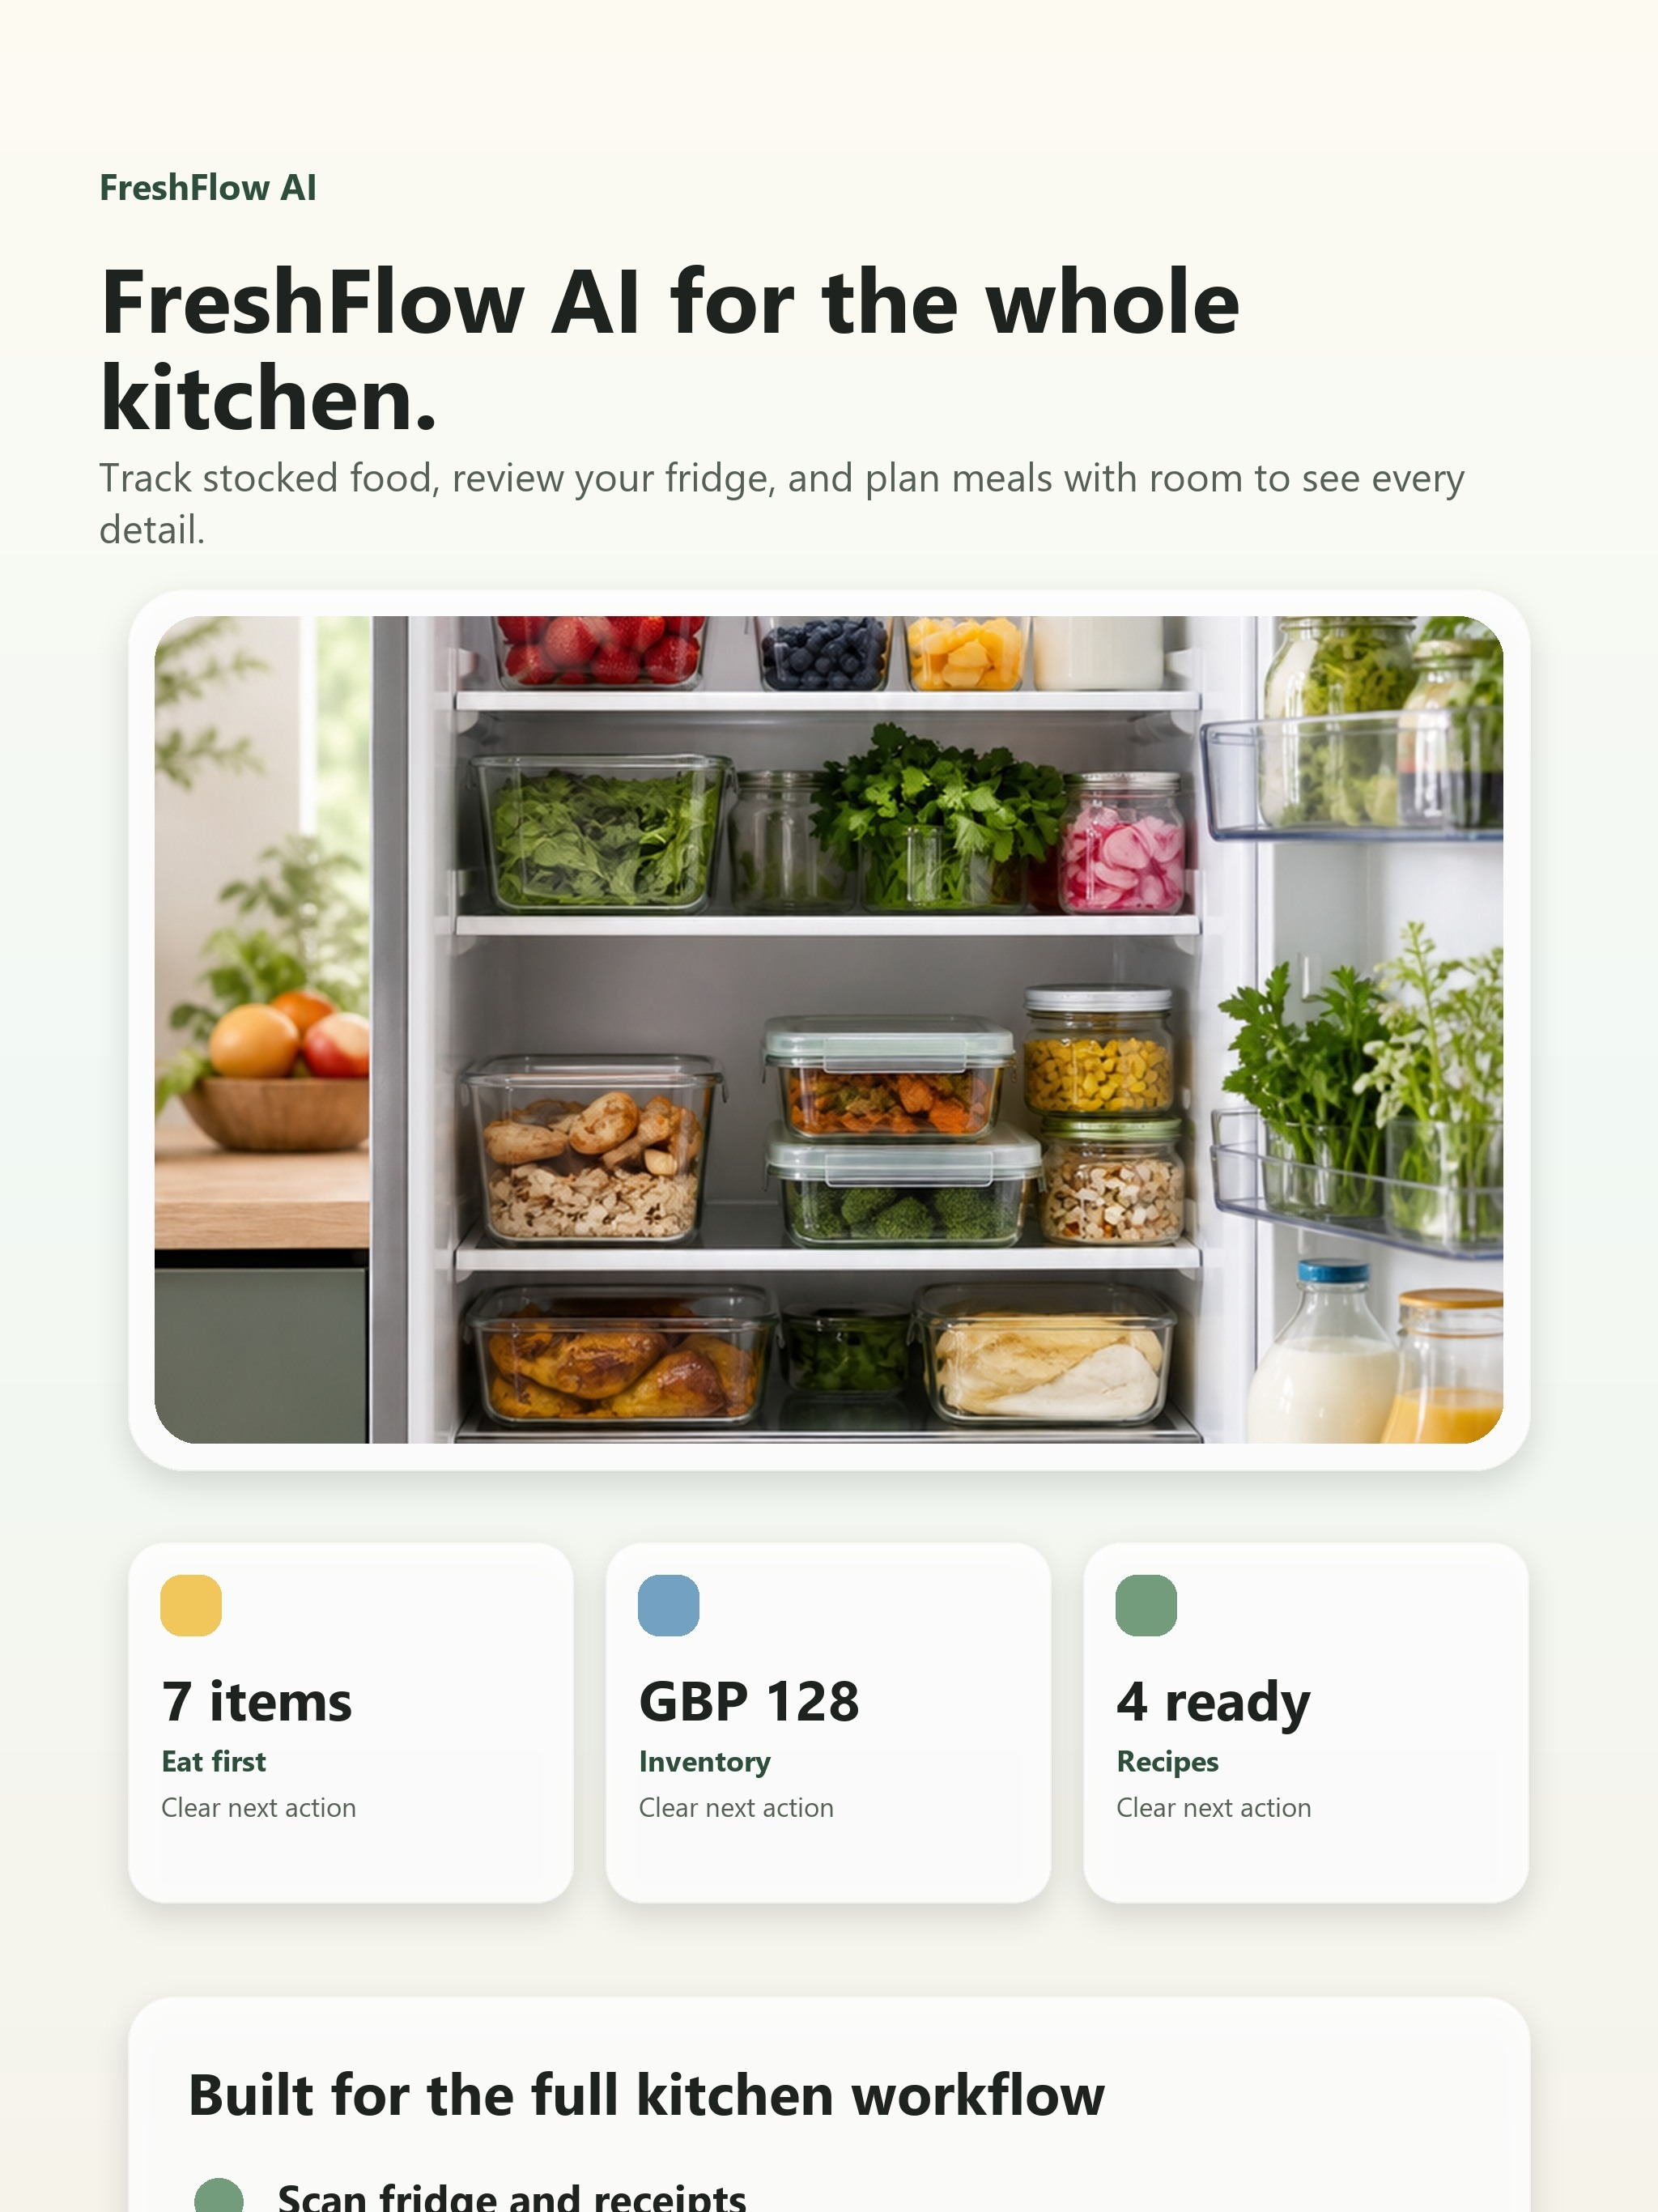
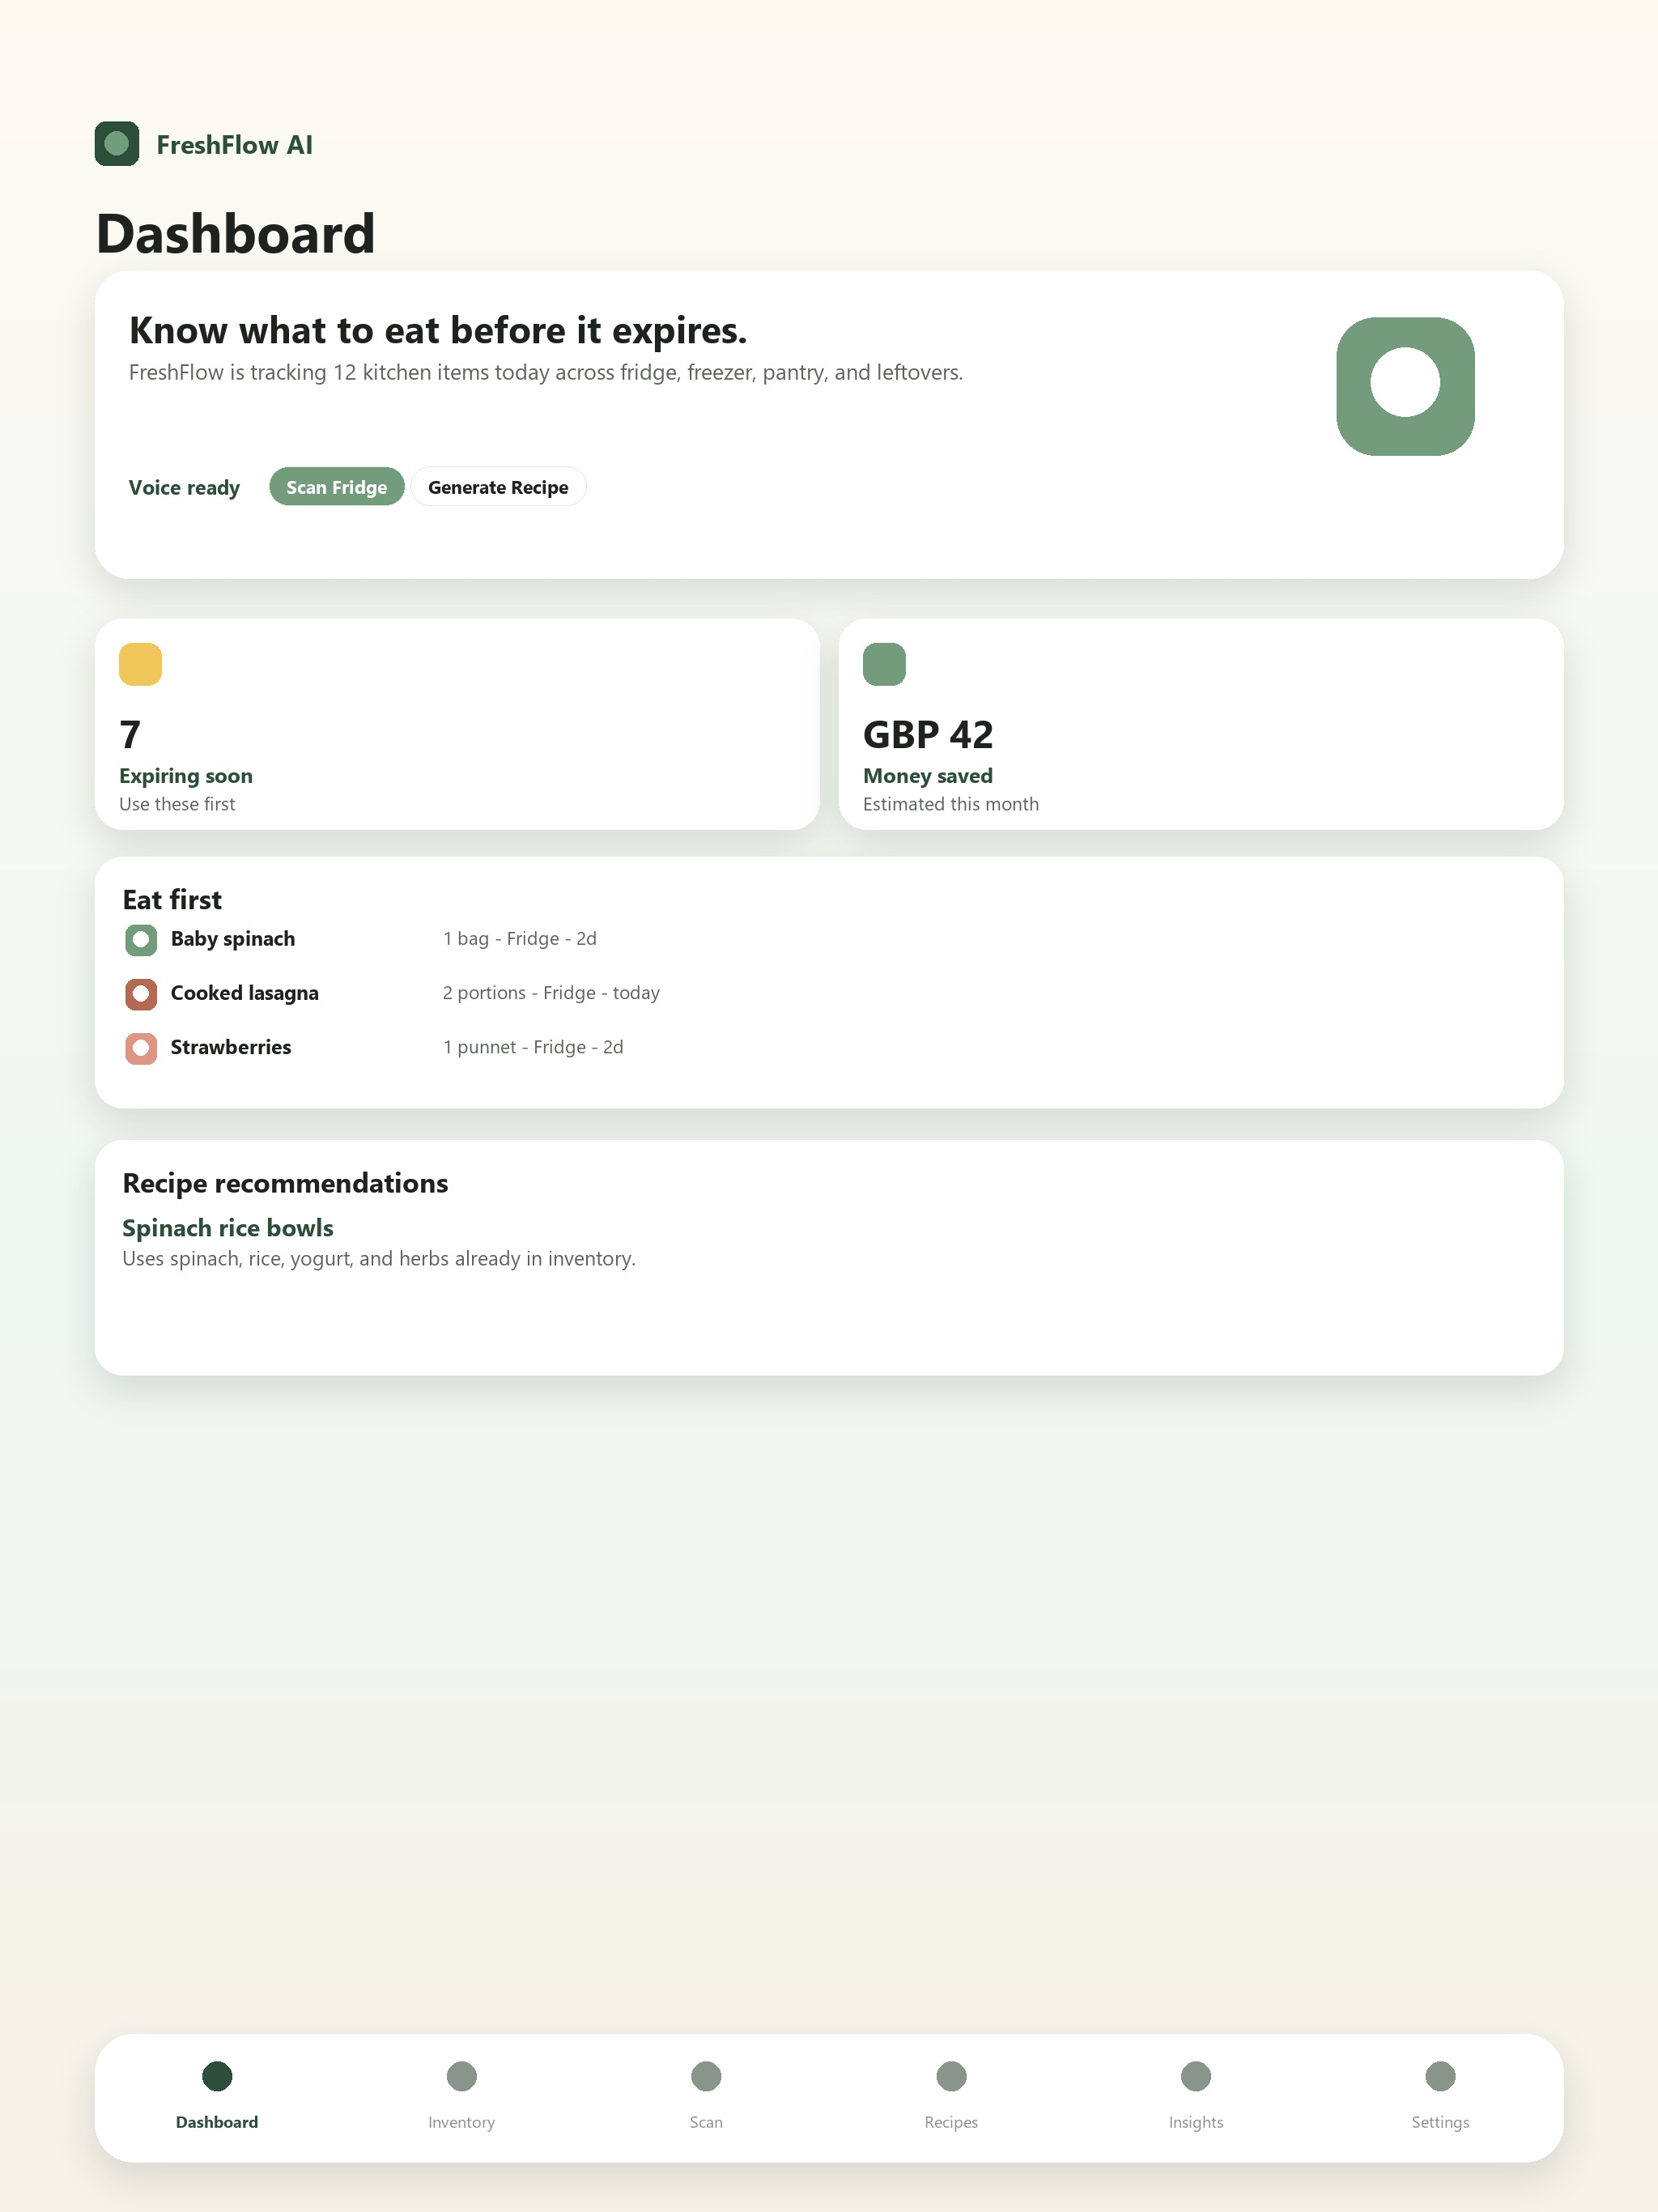
Address App Review subscription and iPad metadata issues

diff --git a/FreshFlowAI/Services/VoiceServices.swift b/FreshFlowAI/Services/VoiceServices.swift
@@ -33,10 +33,25 @@ struct VoiceInputResult: Hashable {
     var sourceScreen: VoiceSourceScreen
 }
 
+@MainActor
 protocol VoiceInputService {
     func requestPermissions() async -> VoicePermissionState
     func startListening(source: VoiceSourceScreen) async throws -> VoiceInputResult
     func stopListening()
+}
+
+enum VoiceInputError: LocalizedError {
+    case unavailable
+    case noSpeechDetected
+
+    var errorDescription: String? {
+        switch self {
+        case .unavailable:
+            "Voice input is unavailable on this device."
+        case .noSpeechDetected:
+            "No speech was detected. Try again or use typed input."
+        }
+    }
 }
 
 struct LocalVoiceInputService: VoiceInputService {
@@ -74,9 +89,15 @@ struct LocalVoiceInputService: VoiceInputService {
     func stopListening() {}
 }
 
+@MainActor
 final class NativeVoiceInputService: VoiceInputService {
     private let speechRecognizer = SFSpeechRecognizer(locale: Locale(identifier: "en-US"))
     private let audioEngine = AVAudioEngine()
+    private var recognitionRequest: SFSpeechAudioBufferRecognitionRequest?
+    private var recognitionTask: SFSpeechRecognitionTask?
+    private var continuation: CheckedContinuation<VoiceInputResult, Error>?
+    private var latestTranscript = ""
+    private var hasAudioTap = false
 
     func requestPermissions() async -> VoicePermissionState {
         let speechStatus = await withCheckedContinuation { continuation in
@@ -103,22 +124,109 @@ final class NativeVoiceInputService: VoiceInputService {
     }
 
     func startListening(source: VoiceSourceScreen) async throws -> VoiceInputResult {
-        _ = speechRecognizer
-        _ = audioEngine
-        return VoiceInputResult(
-            transcript: "Voice capture is unavailable on this device. Use typed input to review the command.",
-            confidence: 0.5,
-            sourceScreen: source
-        )
+        guard let speechRecognizer, speechRecognizer.isAvailable else {
+            throw VoiceInputError.unavailable
+        }
+
+        cleanupAudio(cancelTask: true)
+        latestTranscript = ""
+
+        let audioSession = AVAudioSession.sharedInstance()
+        try audioSession.setCategory(.record, mode: .measurement, options: [.duckOthers])
+        try audioSession.setActive(true, options: .notifyOthersOnDeactivation)
+
+        let request = SFSpeechAudioBufferRecognitionRequest()
+        request.shouldReportPartialResults = true
+        recognitionRequest = request
+
+        let inputNode = audioEngine.inputNode
+        let recordingFormat = inputNode.outputFormat(forBus: 0)
+        inputNode.installTap(onBus: 0, bufferSize: 1024, format: recordingFormat) { buffer, _ in
+            request.append(buffer)
+        }
+        hasAudioTap = true
+
+        audioEngine.prepare()
+        try audioEngine.start()
+
+        return try await withTaskCancellationHandler {
+            try await withCheckedThrowingContinuation { (continuation: CheckedContinuation<VoiceInputResult, Error>) in
+                self.continuation = continuation
+                self.recognitionTask = speechRecognizer.recognitionTask(with: request) { [weak self] result, error in
+                    Task { @MainActor in
+                        guard let self else { return }
+                        if let result {
+                            self.latestTranscript = result.bestTranscription.formattedString
+                            if result.isFinal {
+                                self.finishRecognition(source: source)
+                            }
+                        }
+                        if let error {
+                            self.failRecognition(error)
+                        }
+                    }
+                }
+
+                Task { [weak self] in
+                    try? await Task.sleep(for: .seconds(5))
+                    await MainActor.run {
+                        self?.finishRecognition(source: source)
+                    }
+                }
+            }
+        } onCancel: {
+            Task { @MainActor in
+                self.stopListening()
+            }
+        }
     }
 
     func stopListening() {
-        audioEngine.stop()
+        cleanupAudio(cancelTask: true)
+    }
+
+    private func finishRecognition(source: VoiceSourceScreen) {
+        guard let continuation else { return }
+        self.continuation = nil
+        let transcript = latestTranscript.trimmingCharacters(in: .whitespacesAndNewlines)
+        cleanupAudio(cancelTask: false)
+
+        guard !transcript.isEmpty else {
+            continuation.resume(throwing: VoiceInputError.noSpeechDetected)
+            return
+        }
+
+        continuation.resume(returning: VoiceInputResult(transcript: transcript, confidence: 0.84, sourceScreen: source))
+    }
+
+    private func failRecognition(_ error: Error) {
+        guard let continuation else { return }
+        self.continuation = nil
+        cleanupAudio(cancelTask: false)
+        continuation.resume(throwing: error)
+    }
+
+    private func cleanupAudio(cancelTask: Bool) {
+        if audioEngine.isRunning {
+            audioEngine.stop()
+        }
+        if hasAudioTap {
+            audioEngine.inputNode.removeTap(onBus: 0)
+            hasAudioTap = false
+        }
+        recognitionRequest?.endAudio()
+        if cancelTask {
+            recognitionTask?.cancel()
+        }
+        recognitionRequest = nil
+        recognitionTask = nil
+        try? AVAudioSession.sharedInstance().setActive(false, options: .notifyOthersOnDeactivation)
     }
 }
 
+@MainActor
 struct VoicePermissionService {
-    var voiceService: any VoiceInputService = LocalVoiceInputService()
+    var voiceService: any VoiceInputService = NativeVoiceInputService()
 
     func status() async -> VoicePermissionState {
         await voiceService.requestPermissions()

diff --git a/FreshFlowAI/Views/SettingsPaywallView.swift b/FreshFlowAI/Views/SettingsPaywallView.swift
@@ -51,8 +51,8 @@ struct SettingsView: View {
                     VStack(alignment: .leading, spacing: 12) {
                         Text("Legal and safety")
                             .font(.headline)
-                        SettingsRow(title: "Privacy Policy", value: "Placeholder", systemImage: "lock.shield.fill")
-                        SettingsRow(title: "Terms", value: "Placeholder", systemImage: "doc.text.fill")
+                        LegalLinkRow(title: "Privacy Policy", destination: FreshFlowLegalLinks.privacyPolicy, systemImage: "lock.shield.fill")
+                        LegalLinkRow(title: "Terms of Use", destination: FreshFlowLegalLinks.termsOfUse, systemImage: "doc.text.fill")
                         SafetyDisclaimerView()
                     }
                 }
@@ -100,6 +100,30 @@ private struct SettingsRow: View {
     }
 }
 
+private struct LegalLinkRow: View {
+    var title: String
+    var destination: URL
+    var systemImage: String
+
+    var body: some View {
+        Link(destination: destination) {
+            HStack(spacing: 12) {
+                Image(systemName: systemImage)
+                    .foregroundStyle(.white)
+                    .frame(width: 34, height: 34)
+                    .background(FreshFlowTheme.sage, in: RoundedRectangle(cornerRadius: 12, style: .continuous))
+                Text(title)
+                    .font(.subheadline.weight(.semibold))
+                    .foregroundStyle(FreshFlowTheme.charcoal)
+                Spacer()
+                Label("Open", systemImage: "arrow.up.right.square")
+                    .font(.caption.weight(.semibold))
+                    .foregroundStyle(FreshFlowTheme.deepSage)
+            }
+        }
+    }
+}
+
 struct PaywallView: View {
     @Environment(\.dismiss) private var dismiss
     @State private var selectedPlan: SubscriptionPlan = .premiumYearly
@@ -115,7 +139,7 @@ struct PaywallView: View {
         NavigationStack {
             ScrollView {
                 VStack(alignment: .leading, spacing: 22) {
-                    FoodPhotographyPlaceholder(category: .produce, size: 100)
+                    FoodCategoryArtwork(category: .produce, size: 100)
                     Text("Unlock FreshFlow Premium")
                         .font(.largeTitle.bold())
                         .foregroundStyle(FreshFlowTheme.charcoal)
@@ -162,6 +186,24 @@ struct PaywallView: View {
                         }
                         .font(.subheadline.weight(.semibold))
                         .foregroundStyle(FreshFlowTheme.charcoal)
+                    }
+
+                    FreshFlowCard {
+                        VStack(alignment: .leading, spacing: 12) {
+                            Text("Subscription terms")
+                                .font(.headline)
+                                .foregroundStyle(FreshFlowTheme.charcoal)
+                            Text("Subscriptions renew automatically unless canceled at least 24 hours before the end of the current period. Manage or cancel subscriptions in your App Store account settings.")
+                                .font(.footnote)
+                                .foregroundStyle(.secondary)
+                                .fixedSize(horizontal: false, vertical: true)
+                            HStack(spacing: 16) {
+                                Link("Privacy Policy", destination: FreshFlowLegalLinks.privacyPolicy)
+                                Link("Terms of Use", destination: FreshFlowLegalLinks.termsOfUse)
+                            }
+                            .font(.footnote.weight(.semibold))
+                            .foregroundStyle(FreshFlowTheme.deepSage)
+                        }
                     }
 
                     if let errorMessage = subscriptionStore.errorMessage {

diff --git a/FreshFlowAI/Services/PlatformServices.swift b/FreshFlowAI/Services/PlatformServices.swift
@@ -5,6 +5,11 @@ import SwiftUI
 import UIKit
 import UserNotifications
 
+enum FreshFlowLegalLinks {
+    static let privacyPolicy = URL(string: "https://github.com/lanray07/FreshFlow-AI/blob/main/PRIVACY_POLICY.md")!
+    static let termsOfUse = URL(string: "https://www.apple.com/legal/internet-services/itunes/dev/stdeula/")!
+}
+
 @MainActor
 @Observable
 final class SubscriptionStore {
@@ -33,7 +38,8 @@ final class SubscriptionStore {
     }
 
     func displayPrice(for plan: SubscriptionPlan, fallback: String) -> String {
-        product(for: plan)?.displayPrice ?? fallback
+        guard let product = product(for: plan) else { return fallback }
+        return "\(product.displayPrice) \(billingPeriodLabel(for: plan))"
     }
 
     func purchase(_ plan: SubscriptionPlan) async {
@@ -93,6 +99,17 @@ final class SubscriptionStore {
     private func product(for plan: SubscriptionPlan) -> Product? {
         guard let productID = productIDByPlan[plan] else { return nil }
         return products.first { $0.id == productID }
+    }
+
+    private func billingPeriodLabel(for plan: SubscriptionPlan) -> String {
+        switch plan {
+        case .premiumMonthly, .familyMonthly:
+            "/ month"
+        case .premiumYearly:
+            "/ year"
+        case .free:
+            ""
+        }
     }
 
     private func subscriptionPlan(for productID: String) -> SubscriptionPlan {

diff --git a/FreshFlowAI/Models/FreshFlowModels.swift b/FreshFlowAI/Models/FreshFlowModels.swift
@@ -176,13 +176,13 @@ final class InventoryItem {
 @Model
 final class FridgeScan {
     @Attribute(.unique) var id: UUID
-    var imagePlaceholder: String
+    var imageReference: String
     var identifiedItems: [String]
     var createdAt: Date
 
-    init(id: UUID = UUID(), imagePlaceholder: String, identifiedItems: [String], createdAt: Date = .now) {
+    init(id: UUID = UUID(), imageReference: String, identifiedItems: [String], createdAt: Date = .now) {
         self.id = id
-        self.imagePlaceholder = imagePlaceholder
+        self.imageReference = imageReference
         self.identifiedItems = identifiedItems
         self.createdAt = createdAt
     }

diff --git a/FreshFlowAI/ViewModels/AppViewModel.swift b/FreshFlowAI/ViewModels/AppViewModel.swift
@@ -43,7 +43,7 @@ final class AppViewModel {
 
     init(
         aiService: any FreshFlowAIProviding = LocalFreshFlowAIService(),
-        voiceInputService: any VoiceInputService = LocalVoiceInputService()
+        voiceInputService: any VoiceInputService = NativeVoiceInputService()
     ) {
         self.aiService = aiService
         self.voiceInputService = voiceInputService
@@ -119,7 +119,7 @@ final class AppViewModel {
         defer { isLoading = false }
 
         do {
-            scannerReviewItems = try await aiService.recognizeFood(from: ScanInput(source: source, imagePlaceholder: "premium-kitchen-scan"))
+            scannerReviewItems = try await aiService.recognizeFood(from: ScanInput(source: source, imageReference: "food-review-session"))
         } catch {
             errorMessage = "FreshFlow AI could not complete the food review."
         }
@@ -187,7 +187,7 @@ final class AppViewModel {
             lastVoiceIntent = intent
             return intent
         } catch {
-            errorMessage = "Voice input could not start."
+            errorMessage = (error as? LocalizedError)?.errorDescription ?? "Voice input could not start. Typed input remains available."
             return nil
         }
     }

diff --git a/FreshFlowAI/Components/FreshFlowComponents.swift b/FreshFlowAI/Components/FreshFlowComponents.swift
@@ -160,7 +160,7 @@ struct InventoryCard: View {
 
     var body: some View {
         HStack(spacing: 14) {
-            FoodPhotographyPlaceholder(category: item.categoryValue, size: 58)
+            FoodCategoryArtwork(category: item.categoryValue, size: 58)
             VStack(alignment: .leading, spacing: 8) {
                 HStack {
                     Text(item.itemName)
@@ -189,7 +189,7 @@ struct RecipeCard: View {
         FreshFlowCard {
             VStack(alignment: .leading, spacing: 12) {
                 HStack {
-                    FoodPhotographyPlaceholder(category: .produce, size: 52)
+                    FoodCategoryArtwork(category: .produce, size: 52)
                     VStack(alignment: .leading, spacing: 4) {
                         Text(recipe.title)
                             .font(.headline)

diff --git a/FreshFlowAI/Views/WasteSavingsGroceryViews.swift b/FreshFlowAI/Views/WasteSavingsGroceryViews.swift
@@ -38,8 +38,8 @@ struct InsightsHubView: View {
                     ShareableSavingsCardsView()
                 }
 
-                WidgetPlaceholderView()
-                WatchPlaceholderView()
+                DailyKitchenSummaryView()
+                KitchenReminderSummaryView()
             }
             .padding(20)
         }

diff --git a/FreshFlowAI/Services/AIService.swift b/FreshFlowAI/Services/AIService.swift
@@ -2,7 +2,7 @@ import Foundation
 
 struct ScanInput: Hashable {
     var source: StorageLocation
-    var imagePlaceholder: String
+    var imageReference: String
 }
 
 protocol FoodRecognitionService {

diff --git a/FreshFlowAI/Views/DashboardView.swift b/FreshFlowAI/Views/DashboardView.swift
@@ -89,7 +89,7 @@ struct DashboardView: View {
         ZStack(alignment: .bottomLeading) {
             HStack {
                 Spacer()
-                FoodPhotographyPlaceholder(category: .produce, size: 154)
+                FoodCategoryArtwork(category: .produce, size: 154)
                     .padding(.trailing, 10)
             }
             VStack(alignment: .leading, spacing: 10) {

diff --git a/FreshFlowAI/Views/OnboardingView.swift b/FreshFlowAI/Views/OnboardingView.swift
@@ -84,7 +84,7 @@ struct OnboardingView: View {
 
     private var hero: some View {
         VStack(alignment: .leading, spacing: 18) {
-            FoodPhotographyPlaceholder(category: .produce, size: 94)
+            FoodCategoryArtwork(category: .produce, size: 94)
             Text("FreshFlow AI")
                 .font(.system(.largeTitle, design: .rounded, weight: .bold))
                 .foregroundStyle(FreshFlowTheme.charcoal)

diff --git a/FreshFlowAI/Views/RecipeAndMealViews.swift b/FreshFlowAI/Views/RecipeAndMealViews.swift
@@ -25,7 +25,7 @@ struct RecipeHubView: View {
                 }
                 .pickerStyle(.segmented)
 
-                FoodPhotographyPlaceholder(category: .produce, size: 96)
+                FoodCategoryArtwork(category: .produce, size: 96)
                     .frame(maxWidth: .infinity)
                     .padding(.vertical, 10)
 

diff --git a/FreshFlowAI/Views/ScannerView.swift b/FreshFlowAI/Views/ScannerView.swift
@@ -81,7 +81,7 @@ private struct ScannerReviewCard: View {
         FreshFlowCard {
             VStack(alignment: .leading, spacing: 12) {
                 HStack(spacing: 12) {
-                    FoodPhotographyPlaceholder(category: item.category, size: 58)
+                    FoodCategoryArtwork(category: item.category, size: 58)
                     VStack(alignment: .leading, spacing: 5) {
                         Text(item.itemName)
                             .font(.headline)